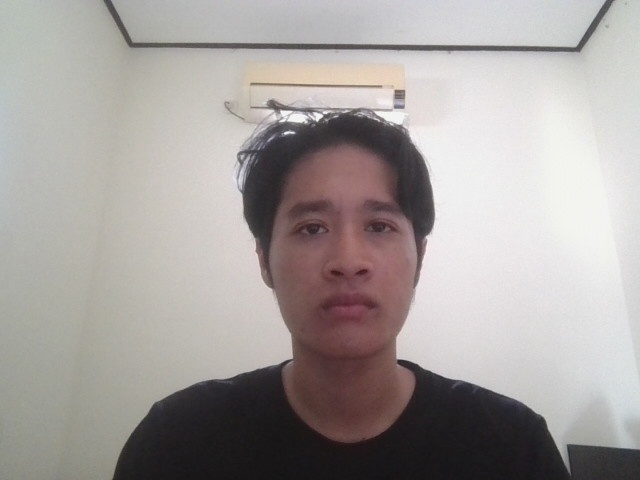
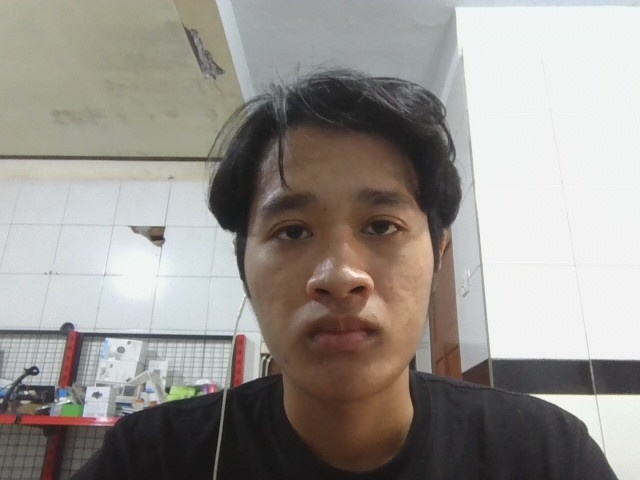
banyak yang terjadi, awal dari integrasi dengan server linux lokal, server memproses perbandingan wajah dan database

diff --git a/server_recognize.py b/server_recognize.py
@@ -1,0 +1,88 @@
+import cv2
+import numpy as np
+import pickle
+import face_recognition
+import mysql.connector
+from fastapi import FastAPI
+
+# kamera = cv2.VideoCapture(0)
+
+encoded = []
+personnamed = []
+
+app = FastAPI()
+
+@app.get("/")
+def home():
+    return{"message":"Server aktif!"}
+
+@app.get("/recognize")
+async def recognize(file: Upload = file(...)):
+    image_data = await file.read()
+    array = np.frombuffer(image_data, dtype=np.uint8)
+    image_fix = cv2.imdecode(array, cv2.IMREAD_COLOR)
+
+
+# database = mysql.connector.connect(
+#     host = "localhost",
+#     user = "root",
+#     password = "",
+#     database = "face_recog"
+# )
+
+# cursors = database.cursor()
+
+# command = """
+#     SELECT name_faces.name, encoding_faces.encoding
+#     FROM name_faces
+#     JOIN encoding_faces
+#     ON name_faces.id = encoding_faces.facesname_id
+# """
+# cursors.execute(command)
+# data = cursors.fetchall()
+
+# for name, ncode in data:
+#     ubah = pickle.loads(ncode)
+
+#     encoded.append(ubah)
+#     personnamed.append(name)
+
+# for namafile in os.listdir("encoded_data"):
+#     with open(f"./encoded_data/{namafile}", "rb") as file:
+#         encode = pickle.load(file)
+
+#     encoded.append(encode[0])
+#     personnamed.append(os.path.splitext(namafile)[0])
+
+while True:
+    frame = image_jadi
+    erat, frame = kamera.read()
+    resize = cv2.resize(frame, (0,0), fx=0.25, fy=0.25)
+    grey = cv2.cvtColor(resize, cv2.COLOR_BGR2RGB)
+    track = face_recognition.face_locations(grey)
+
+    if track == []:
+        pass
+    else:
+        realtime = face_recognition.face_encodings(grey, track)
+
+        for (atas, kanan, bawah, kiri), posisi in zip(track, realtime):
+            compare = face_recognition.compare_faces(encoded, posisi)
+            if True in compare:
+                wajah_true = compare.index(True)
+                nama = personnamed[wajah_true]
+            else:
+                nama = "Unknown"
+
+            named = nama
+            atas *= 4
+            kanan *= 4
+            bawah *= 4
+            kiri *= 4
+            cv2.rectangle(frame, (kiri, atas), (kanan, bawah), (255,0,0), 2)
+            cv2.putText(frame, named, (kiri, atas - 10), (cv2.FONT_HERSHEY_COMPLEX), 0.5, (0,255,0), 1)
+
+    cv2.imshow("Kamera", frame)
+
+    if cv2.waitKey(1) & 0xFF == ord('q'):
+        break

diff --git a/absensi_recognize.py b/absensi_recognize.py
@@ -6,7 +6,7 @@ import pickle
 import mysql.connector
 
 kamera = cv2.VideoCapture(0)
-list_name = []
+encoded = []
 
 database = mysql.connector.connect(
     host = "localhost",
@@ -14,22 +14,54 @@ database = mysql.connector.connect(
     password = "",
     database = "face_recog"
 )
+cursors = database.cursor()
 
-while True:
-    nama = input("Masukkan nama : ")
+nama = input("Masukkan nama : ")
 
-    for person in os.listdir("person_name"):
-        list_name.append(os.path.splitext(person)[0])
 
-    if nama in list_name:
-        # with open(f"./encoded_data/{nama}.pkl", "rb") as file:
-        #     encoded = pickle.load(file)
-        encoded = pickle.loads()
-        break
-    else:
-        print("Try Again!")
+command = """
+    SELECT name_faces.name, encoding_faces.encoding
+    FROM name_faces
+    JOIN encoding_faces
+    ON name_faces.id = encoding_faces.facesname_id
+    WHERE name_faces.name = %s
+"""
+
+cursors.execute(command, (nama,))
+data = cursors.fetchone()
+
+if data:
+    nama = data[0]
+    ncode = data[1]
+    ubah = pickle.loads(ncode)
+
+    encoded.append(ubah)
+
+else:
+    print("not found!")
+
+
+
+# while True:
+#     nama = input("Masukkan nama : ")
+
+#     for person in os.listdir("person_name"):
+#         list_name.append(os.path.splitext(person)[0])
+
+#     if nama in list_name:
+#         # with open(f"./encoded_data/{nama}.pkl", "rb") as file:
+#         #     encoded = pickle.load(file)
+#         encoded = pickle.loads()
+#         command = "SELECT encoding FROM encoding_image"
+#         hasil = cursors.one()
+        
+#         break
+#     else:
+#         print("Try Again!")
 
 source = encoded[0]
+
+print(source)
 
 while True:
     detik, frame = kamera.read()

diff --git a/client_recognize.py b/client_recognize.py
@@ -1,0 +1,49 @@
+import requests
+import cv2
+import face_recognition
+
+url = "http://192.168.50.10:8000/recognize"
+# img = "./img/Musk.jpg"
+
+# with open(img, "rb") as file:
+#     response = requests.post(url, files={"file":file})
+
+# print(response.status_code)
+# print(response.json())
+
+kamera = cv2.VideoCapture(0)
+koordinat = []
+
+
+while True:
+    ret, frame = kamera.read()
+    ret, numerik = cv2.imencode(".jpg", frame)
+    response =  requests.post(url, files={"file": ("frame.jpg", numerik.tobytes(), "image/jpg")})
+    resize = cv2.resize(frame, (0,0), fx=0.25, fy=0.25)
+    grey = cv2.cvtColor(resize, cv2.COLOR_BGR2RGB)
+    posisi_wajah = face_recognition.face_locations(grey)
+    koordinat.append(posisi_wajah)
+
+    hasil_response = response.json()
+    faces = hasil_response["output"]
+    for face in faces:
+        pesan = face["pesan"]
+        person_name = face["person"]
+        atas, kanan, bawah, kiri = face["box"]
+        if not person_name:
+            person_name = ""
+        else:
+            if pesan == "Correct!":
+                text_color = 0,255,0
+            else:
+                text_color = 0,0,255
+
+        if koordinat == []:
+            pass
+        else:
+            cv2.rectangle(frame, (kiri, atas), (kanan, bawah), (255,0,0), 2)
+            cv2.putText(frame, person_name, (kiri, atas - 10), (cv2.FONT_HERSHEY_PLAIN), 1, (text_color), 2)
+
+    cv2.imshow("Detect!", frame)
+    if cv2.waitKey(1) & 0xFF == ord('q'):
+        break

diff --git a/jpg_encode.py b/jpg_encode.py
@@ -1,15 +1,34 @@
 import face_recognition
 import pickle
+import mysql.connector
 
 name = "Musk" # <-- Insert file name
 
 img = face_recognition.load_image_file(f"./img/{name}.jpg")
-encode = face_recognition.face_encodings(img)
+encode = face_recognition.face_encodings(img)[0]
 
-with open(f"./encoded_data/{name}.pkl", "wb") as file:
-    sv = pickle.dump(encode, file)
+# with open(f"./encoded_data/{name}.pkl", "wb") as file:
+#     sv = pickle.dump(encode, file)
 
-with open(f"./person_name/{name}.txt", "w", encoding="utf-8") as file:
-    file.write(name)
+# with open(f"./person_name/{name}.txt", "w", encoding="utf-8") as file:
+#     file.write(name)
+
+database = mysql.connector.connect(
+    host = "192.168.50.10",
+    user = "yuda",
+    password = "dwinandayuda",
+    database = "face_recognition"
+)
+
+cursors = database.cursor()
+command1 = "INSERT INTO faces_name(person_name) VALUES (%s)"
+cursors.execute(command1, (name,))
+name_id = cursors.lastrowid
+
+command2 = "INSERT INTO encoding_faces(facesname_id, encoding) VALUES (%s, %s)"
+data_bytes = pickle.dumps(encode)
+cursors.execute(command2, (name_id, data_bytes))
+database.commit()
+
 
 print("Success!")

diff --git a/recognition.py b/recognition.py
@@ -5,18 +5,41 @@ import pickle
 import face_recognition
 import mysql.connector
 
-
 kamera = cv2.VideoCapture(0)
 
 encoded = []
 personnamed = []
 
-for namafile in os.listdir("encoded_data"):
-    with open(f"./encoded_data/{namafile}", "rb") as file:
-        encode = pickle.load(file)
+database = mysql.connector.connect(
+    host = "localhost",
+    user = "root",
+    password = "",
+    database = "face_recog"
+)
 
-    encoded.append(encode[0])
-    personnamed.append(os.path.splitext(namafile)[0])
+cursors = database.cursor()
+
+command = """
+    SELECT name_faces.name, encoding_faces.encoding
+    FROM name_faces
+    JOIN encoding_faces
+    ON name_faces.id = encoding_faces.facesname_id
+"""
+cursors.execute(command)
+data = cursors.fetchall()
+
+for name, ncode in data:
+    ubah = pickle.loads(ncode)
+
+    encoded.append(ubah)
+    personnamed.append(name)
+
+# for namafile in os.listdir("encoded_data"):
+#     with open(f"./encoded_data/{namafile}", "rb") as file:
+#         encode = pickle.load(file)
+
+#     encoded.append(encode[0])
+#     personnamed.append(os.path.splitext(namafile)[0])
 
 while True:
     erat, frame = kamera.read()

diff --git a/mysql_test.py b/mysql_test.py
@@ -1,5 +1,6 @@
 import mysql.connector
 import pickle
+import numpy as np
 
 mysql = mysql.connector.connect(
     host = "localhost",
@@ -9,15 +10,45 @@ mysql = mysql.connector.connect(
 
 cursors = mysql.cursor()
 
-command = "SELECT encoding FROM encoding_image"
-cursors.execute(command)
+named = input("Masukkan nama : ")
+
+name_faces = []
+encoding_faces = []
+
+command = """
+    SELECT name_faces.name, encoding_faces.encoding
+    FROM name_faces
+    JOIN encoding_faces
+    ON name_faces.id = encoding_faces.facesname_id
+    WHERE name_faces.name = %s
+"""
+
+cursors.execute(command, (named,))
 data = cursors.fetchone()
 
 # nilai = ("welowelo",)
 
-blobb = data[0]
-dencode = pickle.loads(blobb)
+# blobb = data[0]
+# dencode = pickle.loads(blobb)
+
+# for name, ncode in data:
+#     encoding = pickle.loads(ncode)
+
+#     name_faces.append(name)
+#     encoding_faces.append(encoding)
+
+if data:
+    nama  = data[0]
+    ncode = data[1]
+
+    ubah = pickle.loads(ncode)
+
+    print(nama)
+    print(ubah)
+else:
+    print("gagal")
 
 
-print(dencode)
+
+# print(name_faces, encoding_faces)
 mysql.commit()

diff --git a/data_trainer.py b/data_trainer.py
@@ -20,8 +20,6 @@ database = mysql.connector.connect(
 )
 
 cursors = database.cursor()
-command = "INSERT INTO encoding_image(encoding) VALUES (%s)"
-
 
 while True:
     ret, frame = kamera.read()
@@ -41,9 +39,15 @@ while True:
 
         # with open(f"./person_name/{nama_file}.txt", "w", encoding="utf-8") as file:
         #     file.write(nama_file)
+
+        command1 = "INSERT INTO name_faces(name) VALUES (%s)"
+        cursors.execute(command1, (nama_file,))
+        name_id = cursors.lastrowid
+
+        command2 = "INSERT INTO encoding_faces(facesname_id, encoding) VALUES (%s, %s)"
         data_bytes = pickle.dumps(encode_wajah)
-        value = (data_bytes,)
-        cursors.execute(command, value)
+        # value = (data_bytes,)
+        cursors.execute(command2, (name_id, data_bytes))
         database.commit()
 
         print("Success!")

diff --git a/tempCodeRunnerFile.py b/tempCodeRunnerFile.py
@@ -1,0 +1,1 @@
+j
